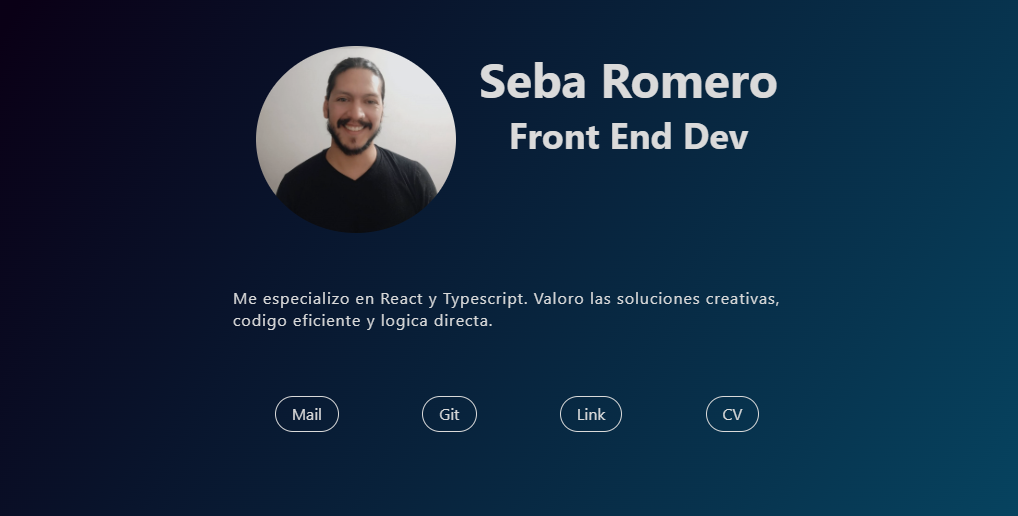
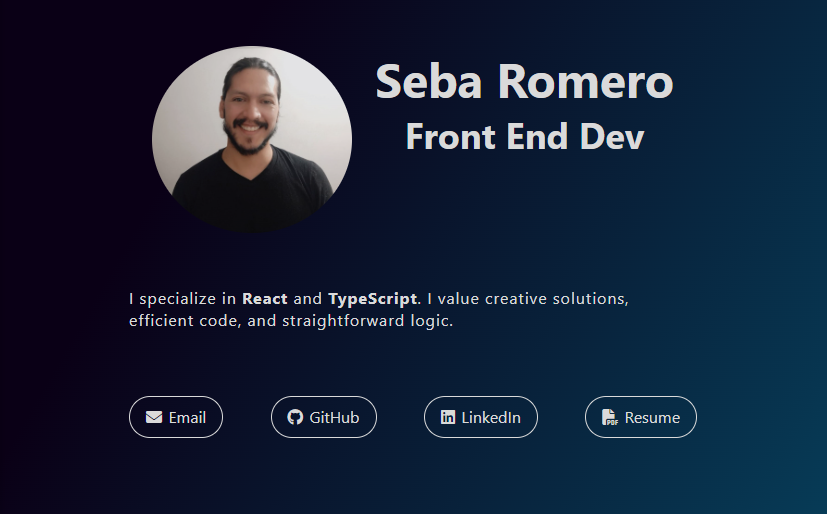
english readme

diff --git a/README.md b/README.md
@@ -1,76 +1,74 @@
-### </> Seba Romero Portafolios
+### </> Seba Romero Portfolio
 
-## Front End Developer
+### Front End Developer
 
-## ✨ Características
+### ✨ Characteristics
 
-- Diseño responsive
-- Proyectos destacados
-- Sección de contacto
-- Estructura clara y derecta
+- Responsive Design
+- Featured projects
+- Contact Section
+- Straightforward structure
 
-## 🛠 Tecnologías utilizadas
+### 🛠 Technologies
 
 - HTML/CSS  
-  Mantener la simpleza lo maximo posible
+  Keep it simple as much as possible
 
-## 🚀 Demo en vivo
+### 🚀 Live Demo
 
-[Portafolios](https://sebaromerox.github.io/portafolios/)
+[Portfolio](https://sebaromerox.github.io/portafolios/)
 
-## 📸 Capturas de pantalla
+### 📸 Screenshots
 
-![Presentacion](./img/cap_1.png)
-![Sobre Mi](./img/cap_2.png)
+![Introducing](./img/cap_1.png)
+![About me](./img/cap_2.png)
 
-## 🎯 Proyectos destacados
+### 🎯 Projects
 
-**🏃♂ La Carrera de los Muñelocos**
-![Carrera de Muñelocos](./img/carrera.jpg)
-Juego de velocidad hecho con Vanilla JavaScript.  
-Presiona las flechas de direccion lo mas rapido que puedas.  
-Llega antes que tus rivales a la meta y pasa al siguiente nivel.
+**🏃♂ Muñelocos Racing**
+![Muñelocos Racing](./img/carrera.jpg)
+A speed-based game built with Vanilla JavaScript.
+Press the arrow keys as quickly as you can to reach the finish line before your opponents and advance to the next level.
 
-**Tecnologías**
+**Techs**
 
 - Vanilla JavaScript
 - HTML Canvas
 - CSS
 
-[Ir al Sitio](https://sebaromerox.github.io/carrera-munelocos)
-[Repositorio](https://github.com/SebaRomeroX/carrera-munelocos)
+[Live Demo](https://sebaromerox.github.io/carrera-munelocos)
+[Repository](https://github.com/SebaRomeroX/carrera-munelocos)
 
-**🎨 Estila Tu Texto**
-![Estila tu Texto](./img/estila_img.png)
-Herramienta para estilar, intuitiva y facil de usar.  
-Elige los estilos mientras ves los cambios en tiempo real.  
-Copialos y pegalos en tu proyecto.
+**🎨 Style Your Text**
+![Style Your Text](./img/estila_img.png)
+An intuitive and easy-to-use styling tool.
+Choose your styles while seeing changes in real time, then copy and paste the code directly into your project.
 
-**Tecnologías**
+**Techs**
 
 - React
 - Context API
 - CSS
 
-[Ir al Sitio](https://estilatutexto.netlify.app/)
-[Repositorio](https://github.com/SebaRomeroX/estila-tu-texto)
+[Live Demo](https://estilatutexto.netlify.app/)
+[Repository](https://github.com/SebaRomeroX/estila-tu-texto)
 
-**📱 enContacto**  
-![enContacto](./img/enContacto_img.png)  
-Gestion de salas de chat.  
-Administra distintas salas y a los usuarios que participaran en ellas.  
-"Tu equipo siempre enContacto"
+**📱 inTouch**  
+![inTouch](./img/enContacto_img.png)  
+Chat room management.
+Create and manage rooms, control user participation, and keep conversations organized.
+"Your team. Always. inTouch."
 
-**Tecnologías**
+**Techs**
 
 - React / TypeScript
 - Context API
 - React Router
 - CSS
 
-[Ir al Sitio](https://encontacto-demo.netlify.app/)
-[Repositorio](https://github.com/SebaRomeroX/EnContacto-Demo)
+[Live Demo](https://encontacto-demo.netlify.app/)
+[Repository](https://github.com/SebaRomeroX/EnContacto-Demo)
 
-### 📞 Contacto
+### 📞 Contact
 
-[LinkedIn](https://www.linkedin.com/in/sebastian-alejandro-romero/)
+[LinkedIn](https://www.linkedin.com/in/sebastian-romero-dev/)
